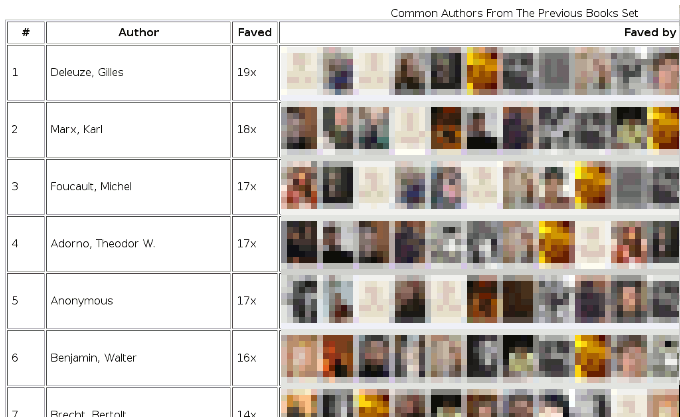
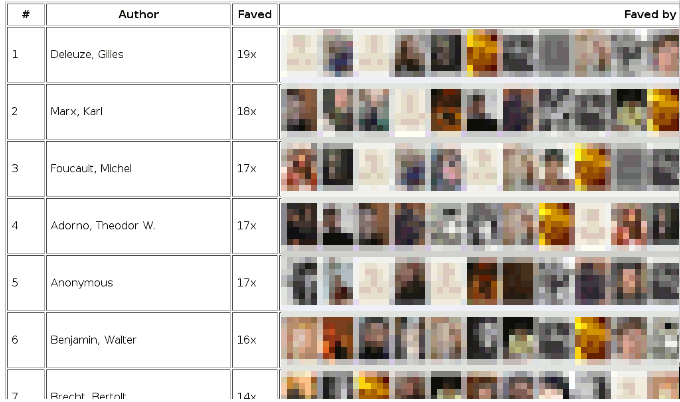
Update doc

diff --git a/friendrated.md b/friendrated.md
@@ -18,7 +18,7 @@ From the _Goodreads Feedback_ forum, [Sophie (2013)](https://www.goodreads.com/t
 
 ![Screenshot](img/friendrated2.png?raw=true "Screenshot")
 
-and this:
+and most read authors:
 
 ![Screenshot](img/friendrated3.png?raw=true "Screenshot")
 
